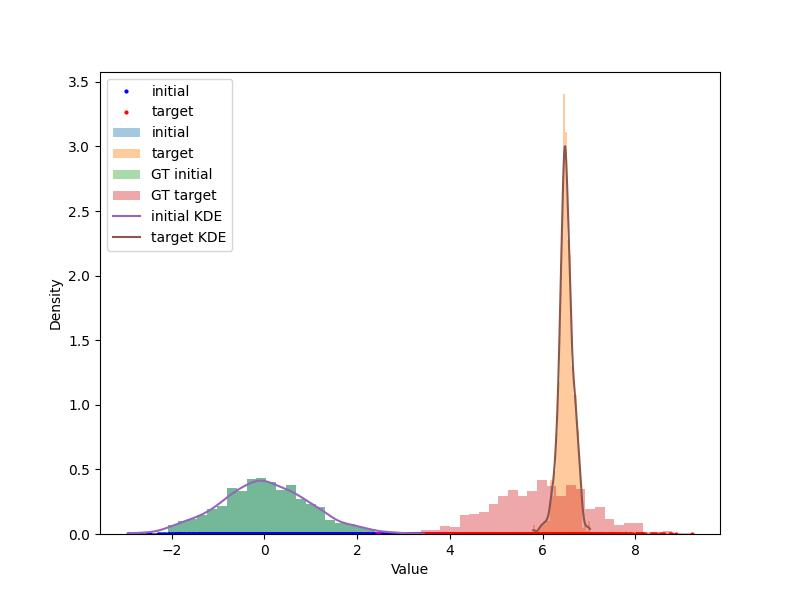
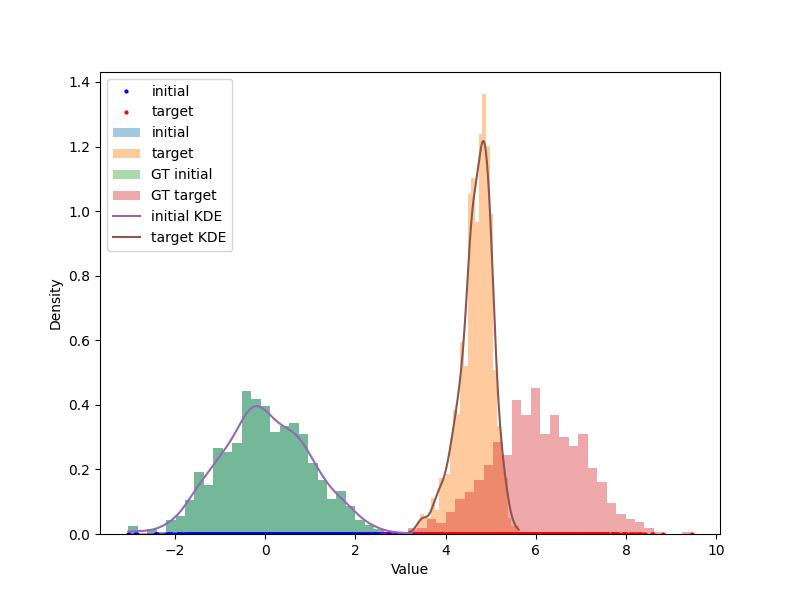
change LSTM input size to be [N,T,nx]
standard deviation still not correct

diff --git a/main.py b/main.py
@@ -64,48 +64,52 @@ class FlowMatchingSolver:
         return x0.to(self.device), xf.to(self.device)
 
     def compute_control(self, x0, xf):
-        # returns u_z trajectories: shape [N, Nt+1, dim]
+        # returns u_z trajectories: shape [N, Nt+1, nu]
         N, _ = x0.shape
         u_z = torch.zeros(N, self.Nt+1, self.nu, device=self.device)
+        x_z = torch.zeros(N, self.Nt+1, self.nx, device=self.device)
         dW = torch.randn(N, self.Nt, nu, device=self.device) * math.sqrt(self.dt)
-
+        feature_noise = torch.zeros(N, self.Nt+1, self.nx, device=self.device)
         for k, t in enumerate(self.t_grid): # for every time step
             Phi_tf_t = self.compute_Phi(self.tf, t)
             G_tf_0 = self.compute_G(0)
             Ginv = torch.linalg.inv(G_tf_0 + 1e-6 * torch.eye(nu, device=self.device))
             integral_term = torch.zeros(N, nu, device=self.device)
+            Phi_t_tau_intergrand = torch.zeros(N, self.nx, device=self.device)
             for m, tau in enumerate(self.t_grid[:k]):
                 Phi_tf_tau = self.compute_Phi(self.tf, tau)
                 G_tf_tau = self.compute_G(tau)
                 G_tf_tau_inv = torch.linalg.inv(G_tf_tau+1e-6*torch.eye(nu, device=self.device))
                 integrand = Phi_tf_t.T @ G_tf_tau_inv @ Phi_tf_tau
                 integral_term += dW[:, m]@integrand
+                Phi_t_tau = self.compute_Phi(t, tau)
+                Phi_t_tau_intergrand += dW[:, m]@Phi_t_tau.T*math.sqrt(self.epsilon)
+            feature_noise[:, k] = Phi_t_tau_intergrand
             term1 = -math.sqrt(self.epsilon) * integral_term
             M_t = self.M(self.tf)
             term2 = (xf - x0.matmul(M_t.T))@Ginv.T@Phi_tf_t
             u_z[:, k] = term1 + term2
-        
-        return u_z
+            M_t = self.M(t)
+            u = u_z[:,k]
+            control_integral_term = torch.zeros([N, nx], device=self.device)
+            for m, tau in enumerate(self.t_grid[:k]):
+                Phi_t_tau = self.compute_Phi(t, tau)
+                control_integral_term += (Phi_t_tau @ (u.T)).T * self.dt
+            x_z[:, k] = (M_t @ x0.T).T + control_integral_term + feature_noise[:,k]
+
+        return u_z, feature_noise, x_z
         
     def M(self, t):
         M_integrand = torch.stack([self.A_fn(theta)*t for theta in self.thetas])
         M_integrand = torch.matrix_exp(M_integrand)
         return M_integrand.mean(dim=0)
     
-    def build_dataset(self, x0, u_z):
-        N, _, nu = u_z.shape
-        X = []
-        Y = []
-        for i in range(N):
-            Wint = torch.zeros_like(x0[i])
-            for k, t in enumerate(self.t_grid):
-                if k > 0:
-                    dW = torch.randn(nu, device=self.device) * math.sqrt(self.dt)
-                    Wint += torch.sqrt(torch.tensor(self.epsilon)) * (self.compute_Phi(t, self.t_grid[k-1]) @ dW)
-                input = torch.cat([x0[i], t.unsqueeze(0), Wint])
-                X.append(input)
-                Y.append(u_z[i, k])
-        return torch.stack(X), torch.stack(Y)
+    def build_dataset(self, x0, u_z, noise):
+        N, T, nu = u_z.shape
+        x0 = x0.unsqueeze(1).repeat(1, T, 1)
+        t_all = self.t_grid.view(1, T, 1).repeat(N,1,1)
+        X = torch.cat([x0, t_all,noise], dim=2)
+        return X, u_z
 
     class LSTMRegressor(nn.Module):
         def __init__(self, input_dim, hidden_dim, output_dim, num_layers=2):
@@ -115,7 +119,7 @@ class FlowMatchingSolver:
 
         def forward(self, x):
             out, _ = self.lstm(x)
-            return self.fc(out[:, -1, :])
+            return self.fc(out)
 
     class MLPRegressor(nn.Module):
         def __init__(self, input_dim, hidden_dim, output_dim, num_layers=2):
@@ -139,17 +143,18 @@ class FlowMatchingSolver:
                           batch_size=128,
                           epochs=1000,
                           model_type='LSTM'):
-        input_dim = X.size(1)
-        output_dim = Y.size(1)
+        input_dim = X.size(2)
+        output_dim = Y.size(2)
         if model_type == 'LSTM':
             model = self.LSTMRegressor(input_dim, hidden_dim, output_dim).to(self.device)
         elif model_type == 'MLP':
             model = self.MLPRegressor(input_dim, hidden_dim, output_dim, num_layers=2).to(self.device)
         else:
             print("Please choose from LSTM and MLP")
+
         optimizer = optim.Adam(model.parameters(), lr=lr)
         criterion = nn.MSELoss()
-        dataset = torch.utils.data.TensorDataset(X.unsqueeze(1), Y)
+        dataset = torch.utils.data.TensorDataset(X, Y)
         loader = torch.utils.data.DataLoader(dataset, batch_size=batch_size, shuffle=True)
         model.train()
         epoch_loss = []
@@ -163,7 +168,7 @@ class FlowMatchingSolver:
                 loss.backward()
                 optimizer.step()
                 total_loss += loss.item() * xb.size(0)
-            print(f"Epoch {epoch+1}/{epochs}, Average loss: {total_loss/len(dataset):.6f}")
+            #print(f"Epoch {epoch+1}/{epochs}, Average loss: {total_loss/len(dataset):.6f}")
             epoch_loss.append([epoch, total_loss/len(dataset)])
         self.control_model = model
         return epoch_loss
@@ -174,21 +179,21 @@ class FlowMatchingSolver:
         traj = torch.zeros(N, self.Nt+1, nx, device=self.device)
         traj[:, 0, :] = x
         dW = torch.randn(N, self.Nt, self.nu, device=self.device)*math.sqrt(self.dt)
-        for k, t in enumerate(self.t_grid[1:]): 
+        for k, t in enumerate(self.t_grid):
             noise_integral_term = torch.zeros([N, nx], device=self.device)
-            for m, tau in enumerate(self.t_grid[:k+1]):
+            for m, tau in enumerate(self.t_grid[:k]):
                 Phi_t_tau = self.compute_Phi(t, tau)
                 noise_integral_term += (Phi_t_tau @ dW[:, m].T).T
             noise_term = math.sqrt(self.epsilon)*noise_integral_term
             features = torch.cat([x0, t.unsqueeze(0).repeat(N,1), noise_term], dim=1)
-            u = self.control_model(features.unsqueeze(1))
+            u = self.control_model(features.unsqueeze(1)).squeeze(1)
             M_t = self.M(t)
             control_integral_term = torch.zeros([N, nx], device=self.device)
-            for m, tau in enumerate(self.t_grid[:k+1]):
+            for m, tau in enumerate(self.t_grid[:k]):
                 Phi_t_tau = self.compute_Phi(t, tau)
                 control_integral_term += (Phi_t_tau@(u.T)).T*self.dt
             x = (M_t@x0.T).T + control_integral_term + noise_term
-            traj[:, k+1, :] = x
+            traj[:, k, :] = x
         return traj, self.t_grid
 
 if __name__ == "__main__":
@@ -217,13 +222,13 @@ if __name__ == "__main__":
     print(f"using device {device}")
     # algorithm part
     print("Initialize solver")
-    solver = FlowMatchingSolver(A_fn, B_fn, mu0, muf, nx, nu, epsilon=0.01, tf=1.0, time_steps=10, device=device)
+    solver = FlowMatchingSolver(A_fn, B_fn, mu0, muf, nx, nu, epsilon=0.1, tf=1.0, time_steps=10, device=device)
     print("Sample from initial and target distribution")
     x0_samples, xf_samples = solver.sample_pairs(N=1000)
     print("Compute the control")
-    u_z = solver.compute_control(x0_samples, xf_samples)
+    u_z, noise, GT_traj = solver.compute_control(x0_samples, xf_samples)
     print("Prepare for the data set")
-    X, Y = solver.build_dataset(x0_samples, u_z)
+    X, Y = solver.build_dataset(x0_samples, u_z, noise)
     print("Start LSTM training")
     loss = solver.train_control_law(X, Y, model_type='LSTM') # change it to MLP if you want to use MLP
     print("Test and get the trajectory with learned control")

diff --git a/test.py b/test.py
@@ -1,0 +1,64 @@
+import torch
+import torch.nn as nn
+from torch.utils.data import TensorDataset, DataLoader
+
+# 1) Define your model
+class Seq2SeqLSTM(nn.Module):
+    def __init__(self, input_dim, hidden_dim, output_dim, num_layers=1):
+        super().__init__()
+        self.lstm = nn.LSTM(
+            input_size=input_dim,
+            hidden_size=hidden_dim,
+            num_layers=num_layers,
+            batch_first=True,
+        )
+        # time-distributed linear: applies to each time step
+        self.fc = nn.Linear(hidden_dim, output_dim)
+
+    def forward(self, x):
+        # x: [batch, seq_len, input_dim]
+        out, _ = self.lstm(x)         # out: [batch, seq_len, hidden_dim]
+        out = self.fc(out)            # out: [batch, seq_len, output_dim]
+        return out
+
+# 2) Hyperparameters
+input_dim   = 5
+hidden_dim  = 32
+output_dim  = 2
+num_layers  = 1
+batch_size  = 64
+lr          = 1e-3
+num_epochs  = 20
+
+# 3) Dummy data (replace with your tensors)
+X = torch.randn(1000, 11, input_dim)   # your features
+Y = torch.randn(1000, 11, output_dim)  # your targets
+
+# 4) DataLoader
+dataset = TensorDataset(X, Y)
+loader  = DataLoader(dataset, batch_size=batch_size, shuffle=True)
+
+# 5) Instantiate model, loss, optimizer
+device   = torch.device("cuda" if torch.cuda.is_available() else "cpu")
+model    = Seq2SeqLSTM(input_dim, hidden_dim, output_dim, num_layers).to(device)
+criterion= nn.MSELoss()
+optimizer= torch.optim.Adam(model.parameters(), lr=lr)
+
+# 6) Training loop
+for epoch in range(1, num_epochs+1):
+    model.train()
+    running_loss = 0.0
+
+    for xb, yb in loader:
+        xb, yb = xb.to(device), yb.to(device)  # [B,11,5], [B,11,2]
+        optimizer.zero_grad()
+
+        preds = model(xb)                      # [B,11,2]
+        loss  = criterion(preds, yb)
+        loss.backward()
+        optimizer.step()
+
+        running_loss += loss.item() * xb.size(0)
+
+    epoch_loss = running_loss / len(dataset)
+    print(f"Epoch {epoch:02d} — loss: {epoch_loss:.4f}")
